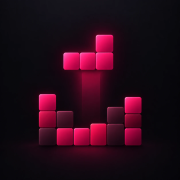
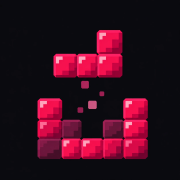
Novo ícone do app

Changed region(s): [[0.1944, 0.1389, 0.8333, 0.9167]]

diff --git a/main.js b/main.js
@@ -8,7 +8,7 @@ import { Duel, newCode } from './duel.js';
 const $ = id => document.getElementById(id);
 
 // Bump on every deploy so the menu shows which version the phone is running
-const VERSION = 42;
+const VERSION = 43;
 
 // ---------- rules ----------
 const PREVIEW = 5;
